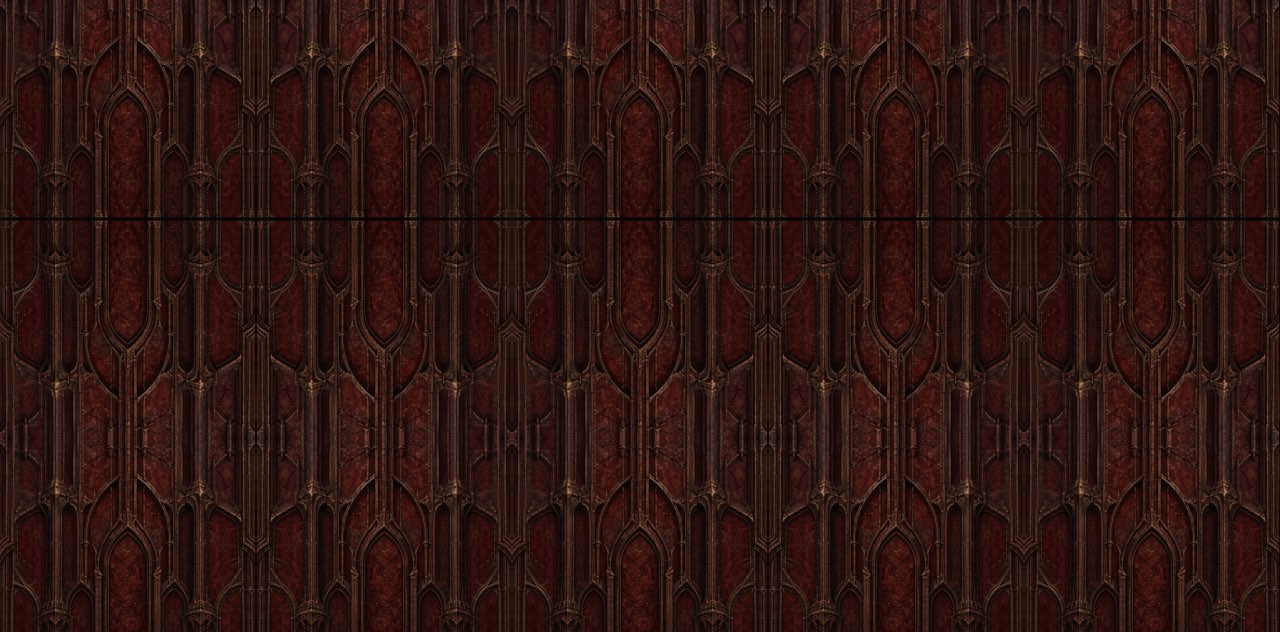
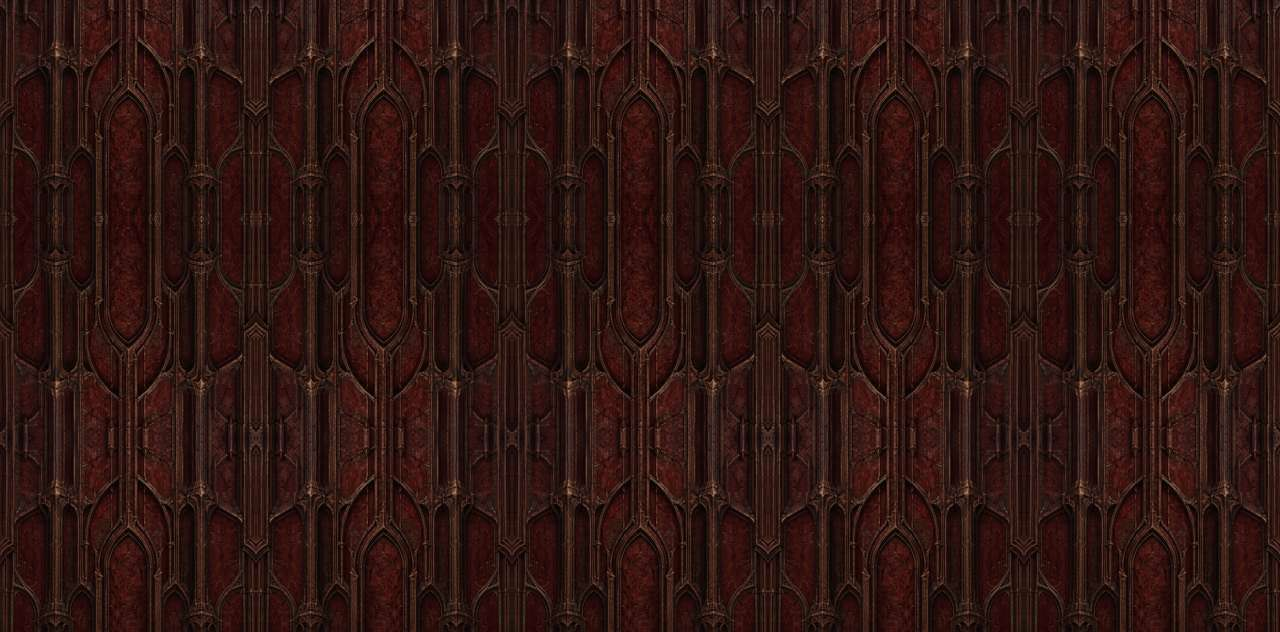
Remove wall border seams and player process labels

diff --git a/crates/ddl/ui/assets/ember/build_assets.py b/crates/ddl/ui/assets/ember/build_assets.py
@@ -3,6 +3,7 @@ Source: original generated phase-A atlas; exact prompt retained in docs/design/v
 Painted Eviternity/fallback masters (now JPEG) are preserved; prompts retained below.
 Spec 035: opaque art is JPEG quality 60, at most 1280x800; frame and ornaments stay lossless PNG.
 """
+import argparse
 from pathlib import Path
 from PIL import Image, ImageOps, ImageDraw
 # 2026-10-16 cover repaint: built-in image_gen, style references only:
@@ -35,6 +36,9 @@ Constraints: original concept art only; no text, no letters, no logos, no plaque
 ROOT = Path(__file__).resolve().parents[5]
 OUT = Path(__file__).resolve().parent
 SOURCE = ROOT / 'docs/design/visual-v2'
+parser = argparse.ArgumentParser(description=__doc__)
+parser.add_argument('--wall-only', action='store_true', help='Regenerate only wall.jpg from the original PNG atlas')
+args = parser.parse_args()
 a = Image.open(SOURCE/'ember-cathedral/art-atlas.png').convert('RGB')
 def save(im, name):
     if name.endswith('.jpg'):
@@ -43,7 +47,8 @@ def save(im, name):
     else:
         im.save(OUT/name, optimize=True)
 # Mirrored quarters meet with identical edge pixels on both axes: seamless repeat.
-q = a.crop((0, 0, 512, 438)).resize((256, 219))
+# Exclude the atlas cell border before mirroring (spec 045).
+q = a.crop((0, 0, 510, 433)).resize((256, 219))
 tile = Image.new('RGB', (512, 438))
 tile.paste(q, (0,0)); tile.paste(ImageOps.mirror(q), (256,0))
 tile.paste(ImageOps.flip(tile.crop((0,0,512,219))), (0,219))
@@ -52,6 +57,8 @@ wall = Image.new('RGB', (1280,632))
 for y in range(0,632,438):
     for x in range(0,1280,512): wall.paste(tile, (x,y))
 save(wall, 'wall.jpg')
+if args.wall_only:
+    raise SystemExit(0)
 source_frame = a.crop((512,0,1024,438))
 f = source_frame.resize((256,220), Image.Resampling.LANCZOS)
 # Only plain rail cross-sections stretch. Corners and ornaments never scale up.

diff --git a/crates/ddl/src/runtime.rs b/crates/ddl/src/runtime.rs
@@ -1616,9 +1616,8 @@ impl Runtime {
                                 if found { 2 } else { 4 },
                             );
                         }
-                        b.check(852., 316., text(ui, T::Verification), 3);
                     }
-                    b.button(2, 852., 402., 336., text(ui, T::DiscoverAction), false);
+                    b.button(2, 852., 330., 336., text(ui, T::DiscoverAction), false);
                 }
                 Screen::Discover | Screen::Library => {
                     let discover = self.screen == Screen::Discover;
@@ -1953,7 +1952,10 @@ impl Runtime {
                             );
                             notes_y += 28.;
                         }
-                        b.label(428., notes_y, 760., 30., text(ui, if matches!(&item.recipe_status, ddl_core::library::RecipeStatus::Update(c) if c.content) { T::RecipeSaves } else { T::Verification }), 20.);
+                        if matches!(&item.recipe_status, ddl_core::library::RecipeStatus::Update(c) if c.content)
+                        {
+                            b.label(428., notes_y, 760., 30., text(ui, T::RecipeSaves), 20.);
+                        }
                         b.nodes[detail_panel].h = (notes_y + 34.).max(478.);
                     }
                 }

diff --git a/crates/ddl/src/headless_production.rs b/crates/ddl/src/headless_production.rs
@@ -837,13 +837,10 @@ pub(super) fn library_home_and_favorite(scene: &Scene, capture: Captures) {
     let checks: Vec<_> = ui.get_nodes().iter().filter(|n| n.kind == 7).collect();
     assert_eq!(
         checks.iter().map(|n| n.y).collect::<Vec<_>>(),
-        [100., 172., 244., 316.]
+        [100., 172., 244.]
     );
-    assert_eq!(
-        checks.iter().map(|n| n.tone).collect::<Vec<_>>(),
-        [2, 2, 4, 3]
-    );
-    assert!(ui.get_nodes().iter().any(|n| n.id == 2 && n.y == 402.));
+    assert_eq!(checks.iter().map(|n| n.tone).collect::<Vec<_>>(), [2, 2, 4]);
+    assert!(ui.get_nodes().iter().any(|n| n.id == 2 && n.y == 330.));
     assert!(
         ui.get_nodes()
             .iter()
@@ -851,6 +848,10 @@ pub(super) fn library_home_and_favorite(scene: &Scene, capture: Captures) {
             .all(|n| !n.screenshot.is_empty())
     );
     assert!(!ui.get_nodes().iter().any(|n| n.kind == 16));
+    assert!(ui.get_nodes().iter().all(|n| {
+        let label = n.label.to_lowercase();
+        !label.contains("verification pending") && !label.contains("needs deck validation")
+    }));
     capture("010-home-continue.png");
 }
 

diff --git a/crates/ddl/tests/ui_strings.rs b/crates/ddl/tests/ui_strings.rs
@@ -113,3 +113,31 @@ fn removed_decorative_copy_does_not_return() {
         }
     }
 }
+
+/// Spec 045: project validation status belongs in docs, not player copy.
+#[test]
+fn project_process_labels_do_not_return() {
+    let ui = Path::new(env!("CARGO_MANIFEST_DIR")).join("ui");
+    for entry in std::fs::read_dir(ui).unwrap() {
+        let path = entry.unwrap().path();
+        if path.extension().is_none_or(|e| e != "slint") {
+            continue;
+        }
+        let source = std::fs::read_to_string(&path).unwrap();
+        for (_, value) in literals(&source) {
+            let value = value.to_lowercase();
+            for removed in [
+                "verification pending",
+                "needs deck validation",
+                "research reference",
+                "not yet verified",
+            ] {
+                assert!(
+                    !value.contains(removed),
+                    "{}: project-process copy {removed:?} is back",
+                    path.display()
+                );
+            }
+        }
+    }
+}

diff --git a/crates/ddl/src/shell.rs b/crates/ddl/src/shell.rs
@@ -376,8 +376,7 @@ impl Shell {
                 b.label(872., 254., 344., 40., Copy::Ready, 26., 0);
                 b.label(872., 304., 344., 30., Copy::EngineReady, 22., 2);
                 b.label(872., 346., 344., 30., Copy::DoomReady, 22., 2);
-                b.label(872., 390., 344., 30., Copy::Pending, 20., 3);
-                b.button(3, 872., 450., 344., Copy::DiscoverMapsets, false);
+                b.button(3, 872., 408., 344., Copy::DiscoverMapsets, false);
                 b.label(40., 554., 800., 40., Copy::Recent, 26., 0);
                 b.row(4, 40., 606., 584., Copy::Home, text(ui, Copy::RecentSigil));
                 b.nodes.last_mut().unwrap().label = "SIGIL · John Romero".into();

diff --git a/crates/ddl/src/wiring_copy.rs b/crates/ddl/src/wiring_copy.rs
@@ -151,7 +151,6 @@ pub enum Text {
     NoUpdates,
     ReviewedUpdate,
     Trust,
-    Verification,
     Bytes,
     BytesUnknown,
     ContentCount,
@@ -355,7 +354,6 @@ pub fn text(ui: &AppWindow, key: Text) -> slint::SharedString {
         Text::NoUpdates => s.get_no_updates(),
         Text::ReviewedUpdate => s.get_reviewed_update(),
         Text::Trust => s.get_trust(),
-        Text::Verification => s.get_verification(),
         Text::Bytes => s.get_bytes(),
         Text::BytesUnknown => s.get_bytes_unknown(),
         Text::ContentCount => s.get_content_count(),
